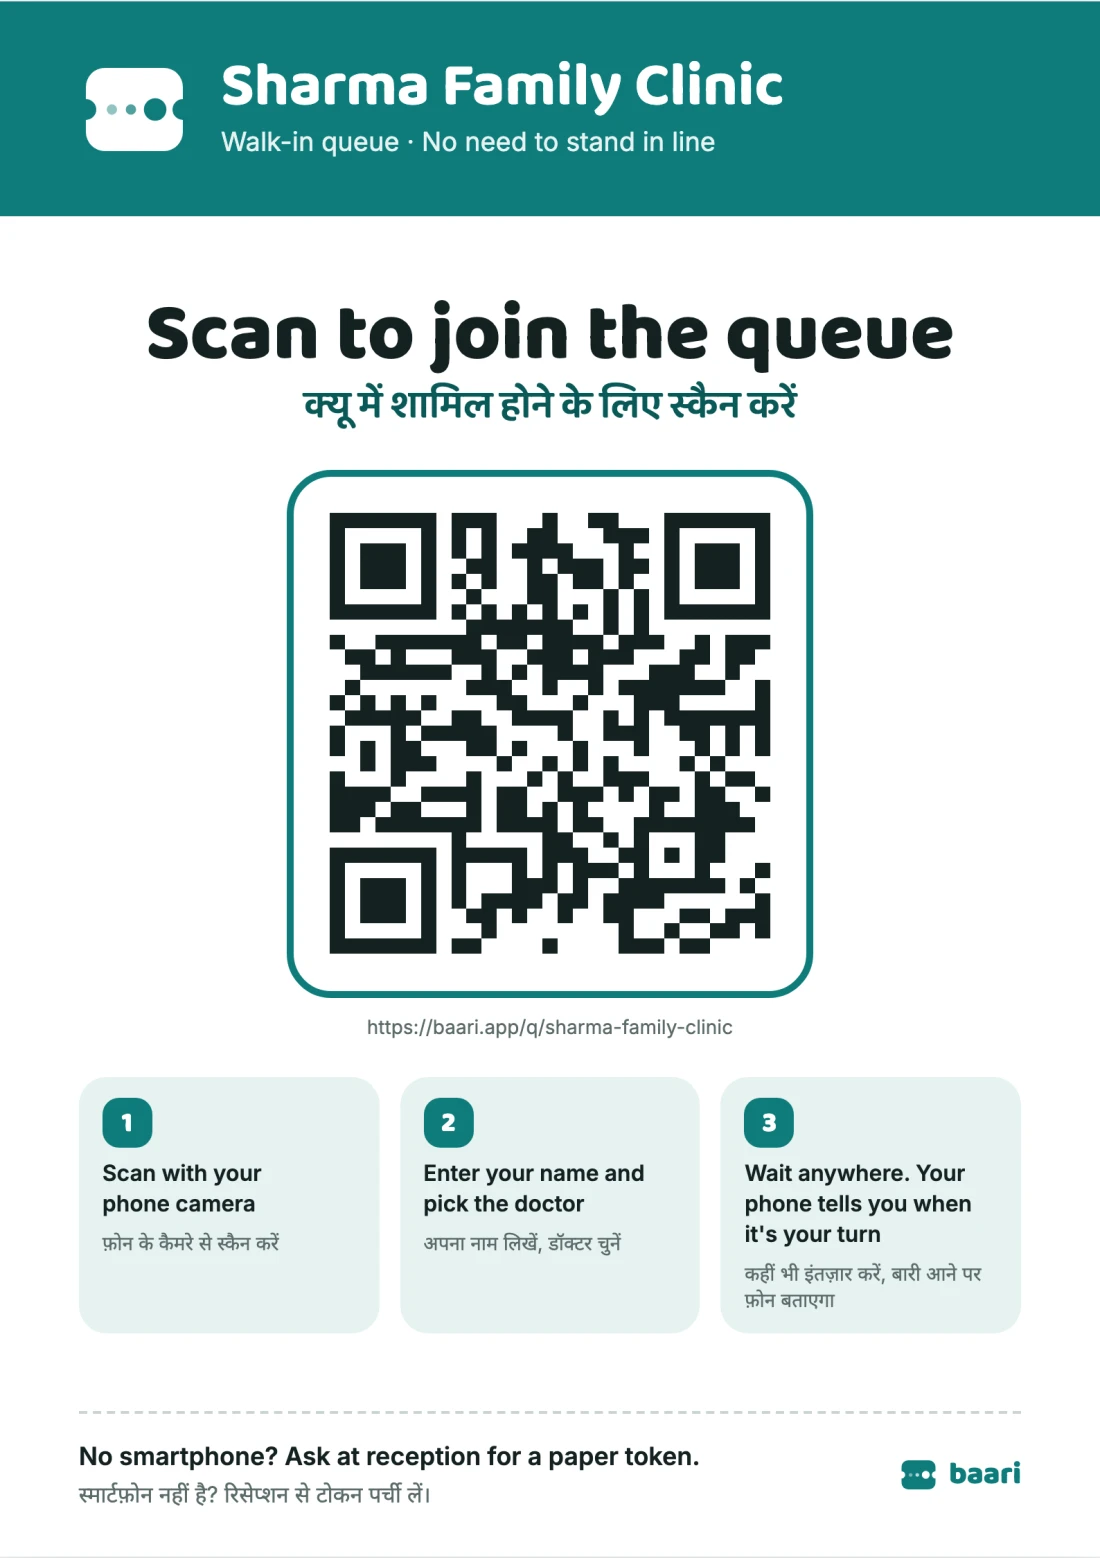
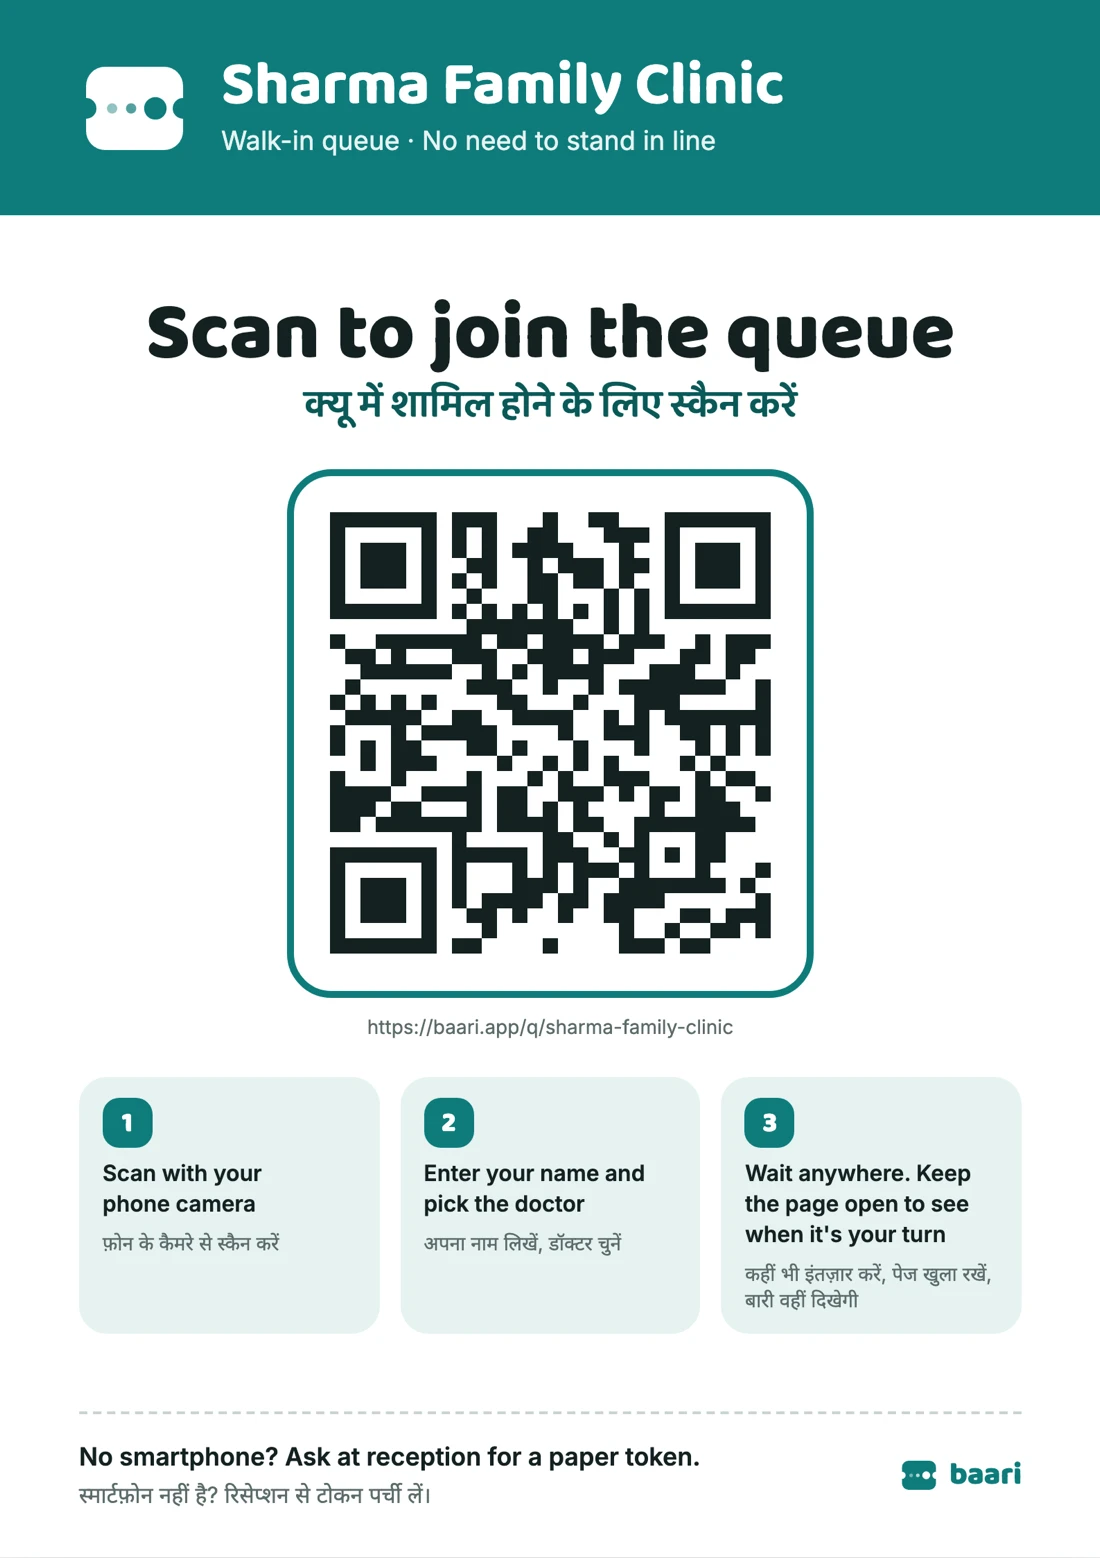
Say "keep the page open" instead of "your phone tells you"
The patient status page can only buzz and show "It's your turn" while it
is open on screen; a locked phone or a closed tab won't alert anyone. The
join form intro, the TV's join panel, the QR poster's third step (English
and Hindi) and two landing page lines claimed more than that, so they now
tell patients to keep the page open. The landing page's join, poster and
TV screenshots are retaken to match, and docs/NOTIFICATIONS.md lists the
old and new wording.

diff --git a/src/components/public/poster/QrPoster.tsx b/src/components/public/poster/QrPoster.tsx
@@ -40,7 +40,7 @@ function useSheetZoom(): number {
 const STEPS: { en: string; hi: string }[] = [
   { en: "Scan with your phone camera", hi: "फ़ोन के कैमरे से स्कैन करें" },
   { en: "Enter your name and pick the doctor", hi: "अपना नाम लिखें, डॉक्टर चुनें" },
-  { en: "Wait anywhere. Your phone tells you when it's your turn", hi: "कहीं भी इंतज़ार करें, बारी आने पर फ़ोन बताएगा" },
+  { en: "Wait anywhere. Keep the page open to see when it's your turn", hi: "कहीं भी इंतज़ार करें, पेज खुला रखें, बारी वहीं दिखेगी" },
 ];
 
 export interface QrPosterProps {

diff --git a/src/components/landing/Statement.tsx b/src/components/landing/Statement.tsx
@@ -9,7 +9,7 @@ import { TurnDots } from "./TurnDots";
 
 /** Words starting with "*" are set in teal. */
 const TEXT =
-  "Your patients wait wherever they like: at home, at the chemist, over a cup of chai. Their phone tells them when *it's *their *turn. Your door stays quiet, and your OPD runs in order.";
+  "Your patients wait wherever they like: at home, at the chemist, over a cup of chai. One look at their phone shows how near *their *turn *is. Your door stays quiet, and your OPD runs in order.";
 const WORDS = TEXT.split(" ").map((w) => ({ text: w.replace(/^\*/, ""), accent: w.startsWith("*") }));
 
 /**

diff --git a/src/components/public/patient/JoinForm.tsx b/src/components/public/patient/JoinForm.tsx
@@ -110,7 +110,7 @@ export function JoinForm({ clinicName, dateLabel, doctors, existing, onSubmit, i
         <div className="px-1">
           <h1 className="font-display text-[28px] leading-tight font-bold">Join the queue</h1>
           <p className="mt-1 text-[15px] leading-snug text-pretty text-muted">
-            Get a token on your phone and wait anywhere. We&apos;ll show your place and tell you when it&apos;s your turn.
+            Get a token on your phone and wait anywhere. Keep the page open to see your place and when it&apos;s your turn.
           </p>
         </div>
 

diff --git a/src/components/landing/HowItWorks.tsx b/src/components/landing/HowItWorks.tsx
@@ -50,7 +50,7 @@ const BEATS: Beat[] = [
   },
   {
     title: "The TV calls them in",
-    body: "Their token flashes on the waiting-room TV, with a chime if you want one, and their phone tells them it's their turn.",
+    body: "Their token flashes on the waiting-room TV, with a chime if you want one, and the page on their phone shows it's their turn.",
     img: {
       src: "/landing/patient-turn.webp",
       alt: "A patient's phone saying It's your turn, please go to Room 2, token A-23",

diff --git a/src/components/public/tv/TvDisplay.tsx b/src/components/public/tv/TvDisplay.tsx
@@ -360,7 +360,7 @@ function JoinRail({ joinUrl }: { joinUrl: string | null }) {
         </p>
       </div>
       <p className="border-t border-divider pt-6 text-[22px] leading-snug text-balance text-muted">
-        Wait anywhere. Your phone shows your place and tells you when it&apos;s your turn.
+        Wait anywhere. Keep the page open on your phone to see when it&apos;s your turn.
       </p>
     </aside>
   );

diff --git a/docs/NOTIFICATIONS.md b/docs/NOTIFICATIONS.md
@@ -29,6 +29,21 @@ Before this change the app promised WhatsApp updates that nothing delivered:
 | Offline banner (artboard 07) | "WhatsApp alerts are on hold." | Removed |
 | Landing page screenshot `public/landing/patient-join.webp` | Showed the WhatsApp label | Retaken from `/preview/join` |
 
+The "your phone tells you when it's your turn" lines were softened too, because the
+status page can only alert a patient while it is open:
+
+| Where | Was | Now |
+|-------|-----|-----|
+| QR join form intro | "We'll show your place and tell you when it's your turn." | "Keep the page open to see your place and when it's your turn." |
+| TV, beside the join QR | "Your phone shows your place and tells you when it's your turn." | "Keep the page open on your phone to see when it's your turn." |
+| QR poster, step 3 | "Your phone tells you when it's your turn" / "बारी आने पर फ़ोन बताएगा" | "Keep the page open to see when it's your turn" / "पेज खुला रखें, बारी वहीं दिखेगी" |
+| Landing page statement | "Their phone tells them when it's their turn." | "One look at their phone shows how near their turn is." |
+| Landing page, how it works | "...and their phone tells them it's their turn." | "...and the page on their phone shows it's their turn." |
+
+The landing page's poster (`poster.webp`), TV (`tv.webp`) and join screenshots were
+retaken to match. Clinics that already printed the poster still have the old step 3;
+reprinting it (desk settings menu > Print QR poster) picks up the new text.
+
 The `outbox` collection's security rule is **kept**: a desk tab still running an older
 build (or holding a pause it saved offline) would otherwise have its whole pause batch
 refused once new rules are deployed. Nothing reads or sends those docs. The
